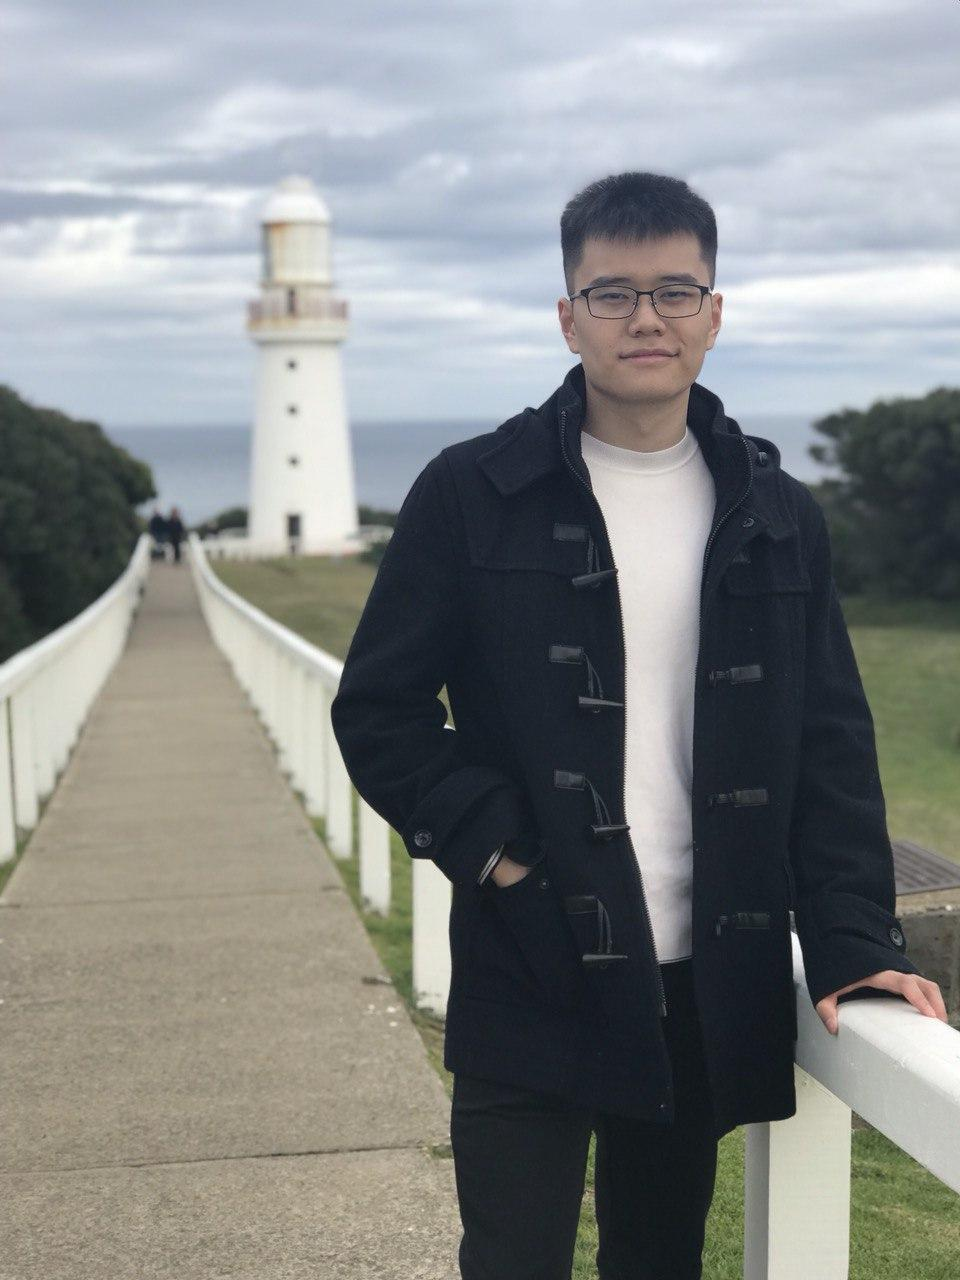
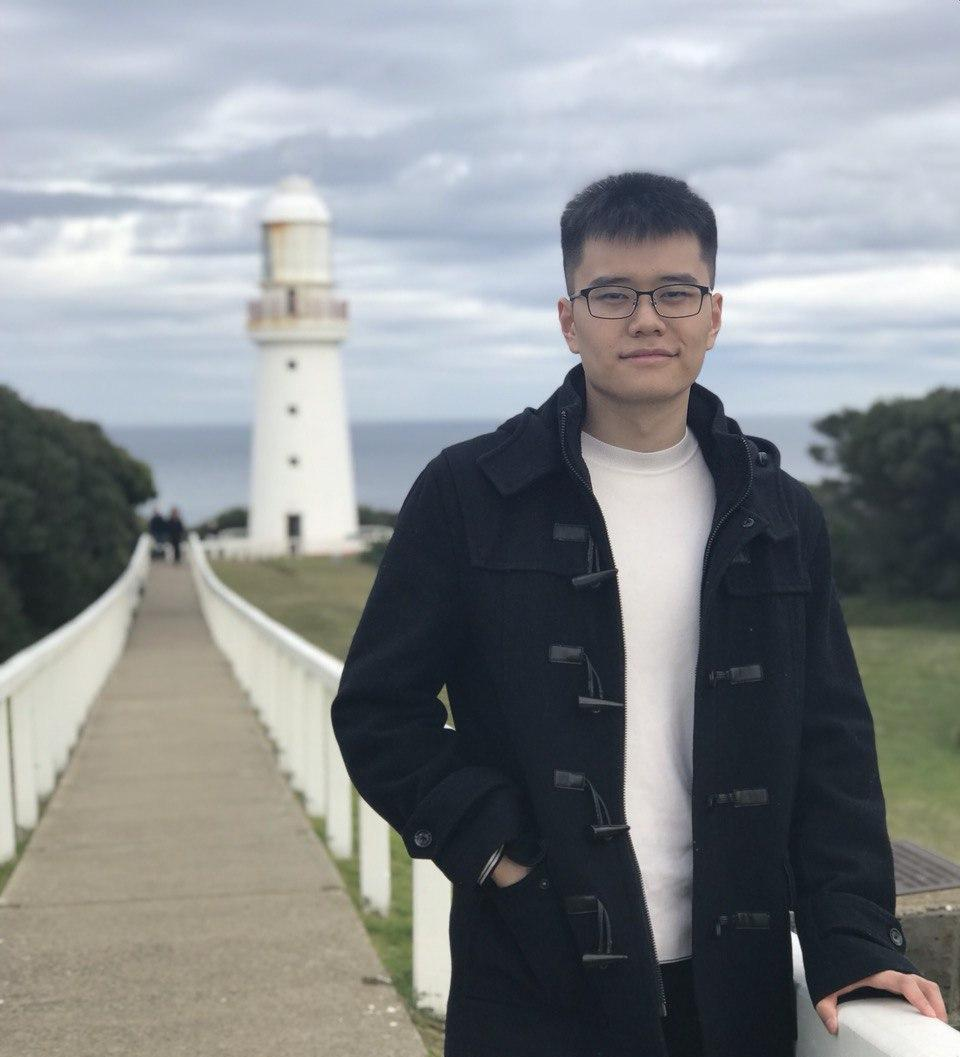
change photo

diff --git a/src/views/Home.vue b/src/views/Home.vue
@@ -12,22 +12,20 @@
             v-col(cols="10" md="8" lg="6")
               v-card
                 v-row.align-center(no-gutters)
-                  v-col.py-0(cols="0" sm="6" v-if="$vuetify.breakpoint.name == 'xs'")
-                    v-img(:src="require('../assets/portrait_short.jpg')" eager)
+                  v-col.py-0(cols="0" sm="6")
+                    v-img(:src="require('../assets/rd_photo.jpg')" eager)
                   v-col.text-left.align-center(cols="12" sm="6")
                     .px-5
                       v-card-text.text--primary 
-                        div.text-h5.text-color I'm Runding Wang, a self-motivated and independent web developer
+                        div.text-h5.text-color I'm Runding Wang, a self-motivated and independent software engineer
                       v-card-actions
                         v-row(justify="start")
                           v-col.py-0(cols="12" md="6")
-                            v-btn(color='orange' text href="https://drive.google.com/file/d/1kQf5NW-4dk9KoNTZIiZ_SLnG-lIFh5Xm/view?usp=sharing")
+                            v-btn(small color='orange' text href="https://drive.google.com/file/d/1kQf5NW-4dk9KoNTZIiZ_SLnG-lIFh5Xm/view?usp=sharing")
                               | View My Resume
                           v-col.py-0(cols="12" md="6")
-                            v-btn(color='orange' text @click="goToBottom")
+                            v-btn(color='orange' text @click="goToBottom" small)
                               | Contact Me
-                  v-col.py-0(cols="0" sm="6" v-if="$vuetify.breakpoint.name == 'sm' || $vuetify.breakpoint.name == 'md' || $vuetify.breakpoint.name == 'lg' || $vuetify.breakpoint.name == 'xl'")
-                    v-img(:src="require('../assets/portrait_short.jpg')" eager)
       
       transition(name="slide-fade")
         div(v-show="display1")
@@ -72,8 +70,13 @@
                     hr.mx-auto.my-4(style="border:1px solid black; width:16px;")
                     .text-left.px-4.px-md-8
                       .text-h5.text-color.font-weight-bold Frameworks
-                      p.py-2 - Proficient: Ruby on Rails, Vue/Vuex
-                      p.py-2 - Intermediate: Git, NodeJS + Express
+                      p.py-2 - Proficient: Ruby on Rails, Vue/Vuex, NodeJS + Express
+                      p.py-2 - Intermediate: Git, React
+                    hr.mx-auto.my-4(style="border:1px solid black; width:16px;")
+                    .text-left.px-4.px-md-8
+                      .text-h5.text-color.font-weight-bold Website maintenance
+                      p.py-2 - Proficient: AWS(EC2, RDS), Digital Ocean, SSL
+                      p.py-2 - Intermediate: SEO, Google web console
 
           v-row#education.mb-5.justify-center.big-gap
             v-col(cols="12")

diff --git a/src/App.vue b/src/App.vue
@@ -45,7 +45,7 @@
             v-col(cols="12" md="3")
               v-btn(x-large icon href="mailto:wangrunding@gmail.com")
                 v-icon(x-large) mdi-email
-              | wangrunding@gmail.com
+              | runding.wang@u.nus.edu
             v-col(cols="12" md="3")
               v-btn(large icon href="https://github.com/R-D-D-D" target="_blank")
                 v-icon(x-large) mdi-github
